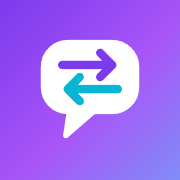
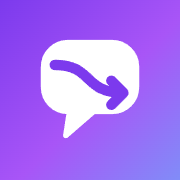
ファビコンを、吹き出しの中を流れる弧の 1 本線の矢印 + 白い縁取りに変更
- ⇄（翻訳アイコンの定番に近い）をやめ、吹き出しの中を左上から右下へ流れるなだらかな弧の矢印 1 本にした
- avatar のファビコンと同じ方式の白い縁取りを付けた（図形自体は中間色の紫で、ライトのタブでも見える）。水色は外し、紫単色 + 白に
- favicon.svg / .ico（16/32/48）/ PNG 16・32・48 / apple-touch-icon（グラデーションのタイル + 白い吹き出し + 紫の矢印）を作り直した
- ブラウザのキャッシュ対策に、index.html のリンクへ ?v=2 を付けた（テストも合わせた）

Changed region(s): [[0.2778, 0.25, 0.7222, 0.6111]]

diff --git a/site/src/FaraBotModeratorSite.Web/wwwroot/index.html b/site/src/FaraBotModeratorSite.Web/wwwroot/index.html
@@ -9,12 +9,12 @@
     <title>FaraBotModerator</title>
     <!-- SEO-HEAD:END -->
     <base href="/" />
-    <!-- ファビコン。favicon.ico は wwwroot の直下に必ず置く（ブラウザが /favicon.ico を直接探す。無いと 404 ページが返る）。SVG は色の切り替えを持たない（Safari 非対応のため、PNG・ICO と見た目をそろえる） -->
-    <link rel="icon" type="image/svg+xml" href="favicon.svg" />
-    <link rel="icon" type="image/x-icon" sizes="16x16 32x32 48x48" href="favicon.ico" />
-    <link rel="icon" type="image/png" sizes="32x32" href="favicon-32.png" />
-    <link rel="icon" type="image/png" sizes="16x16" href="favicon-16.png" />
-    <link rel="apple-touch-icon" sizes="180x180" href="apple-touch-icon.png" />
+    <!-- ファビコン。差し替えるときは ?v= の数字を上げる（ブラウザがファビコンを長く覚えているため）。favicon.ico は wwwroot の直下に必ず置く（ブラウザが /favicon.ico を直接探す。無いと 404 ページが返る）。SVG は色の切り替えを持たない（Safari 非対応のため、PNG・ICO と見た目をそろえる） -->
+    <link rel="icon" type="image/svg+xml" href="favicon.svg?v=2" />
+    <link rel="icon" type="image/x-icon" sizes="16x16 32x32 48x48" href="favicon.ico?v=2" />
+    <link rel="icon" type="image/png" sizes="32x32" href="favicon-32.png?v=2" />
+    <link rel="icon" type="image/png" sizes="16x16" href="favicon-16.png?v=2" />
+    <link rel="apple-touch-icon" sizes="180x180" href="apple-touch-icon.png?v=2" />
     <!-- 起動までの読み込み表示（画面全体を覆う不透明なオーバーレイ）。最初に当てる（CSS の読み込み前にも本文が見えないように、インラインで書く）。
          背景色は theme-init.js（kit）が決める data-bs-theme に従う -->
     <style>

diff --git a/site/tests/FaraBotModeratorSite.Web.Tests/SiteTests.cs b/site/tests/FaraBotModeratorSite.Web.Tests/SiteTests.cs
@@ -83,7 +83,7 @@ public class SiteTests
         var outsideSeoHead = html[(html.IndexOf("SEO-HEAD:END", StringComparison.Ordinal))..];
         foreach (var href in new[] { "favicon.svg", "favicon.ico", "favicon-32.png", "favicon-16.png", "apple-touch-icon.png" })
         {
-            Assert.Contains($"href=\"{href}\"", outsideSeoHead);
+            Assert.Contains($"href=\"{href}?v=", outsideSeoHead);   // 差し替えるときは ?v= を上げる
             Assert.True(File.Exists(Path.Combine(wwwroot, href)), href);   // favicon.ico が無いと、/favicon.ico は 404 ページになる
         }
         Assert.DoesNotContain("prefers-color-scheme", File.ReadAllText(Path.Combine(wwwroot, "favicon.svg")));   // Safari 非対応。PNG・ICO と見た目をそろえる
